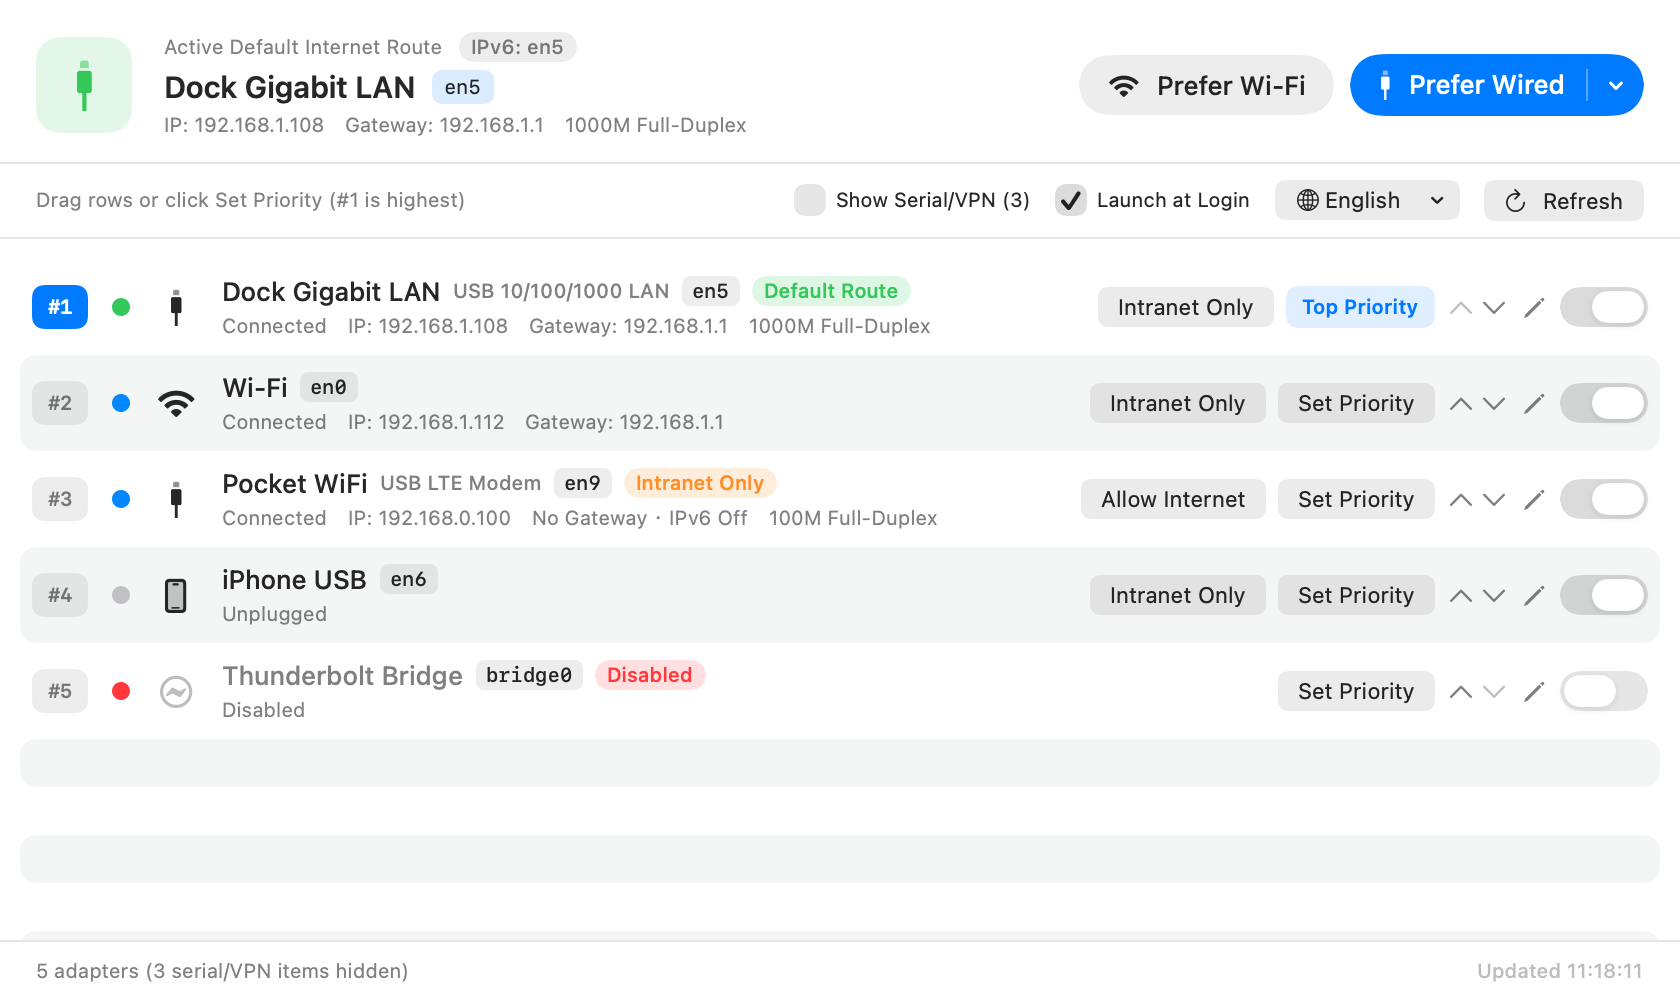
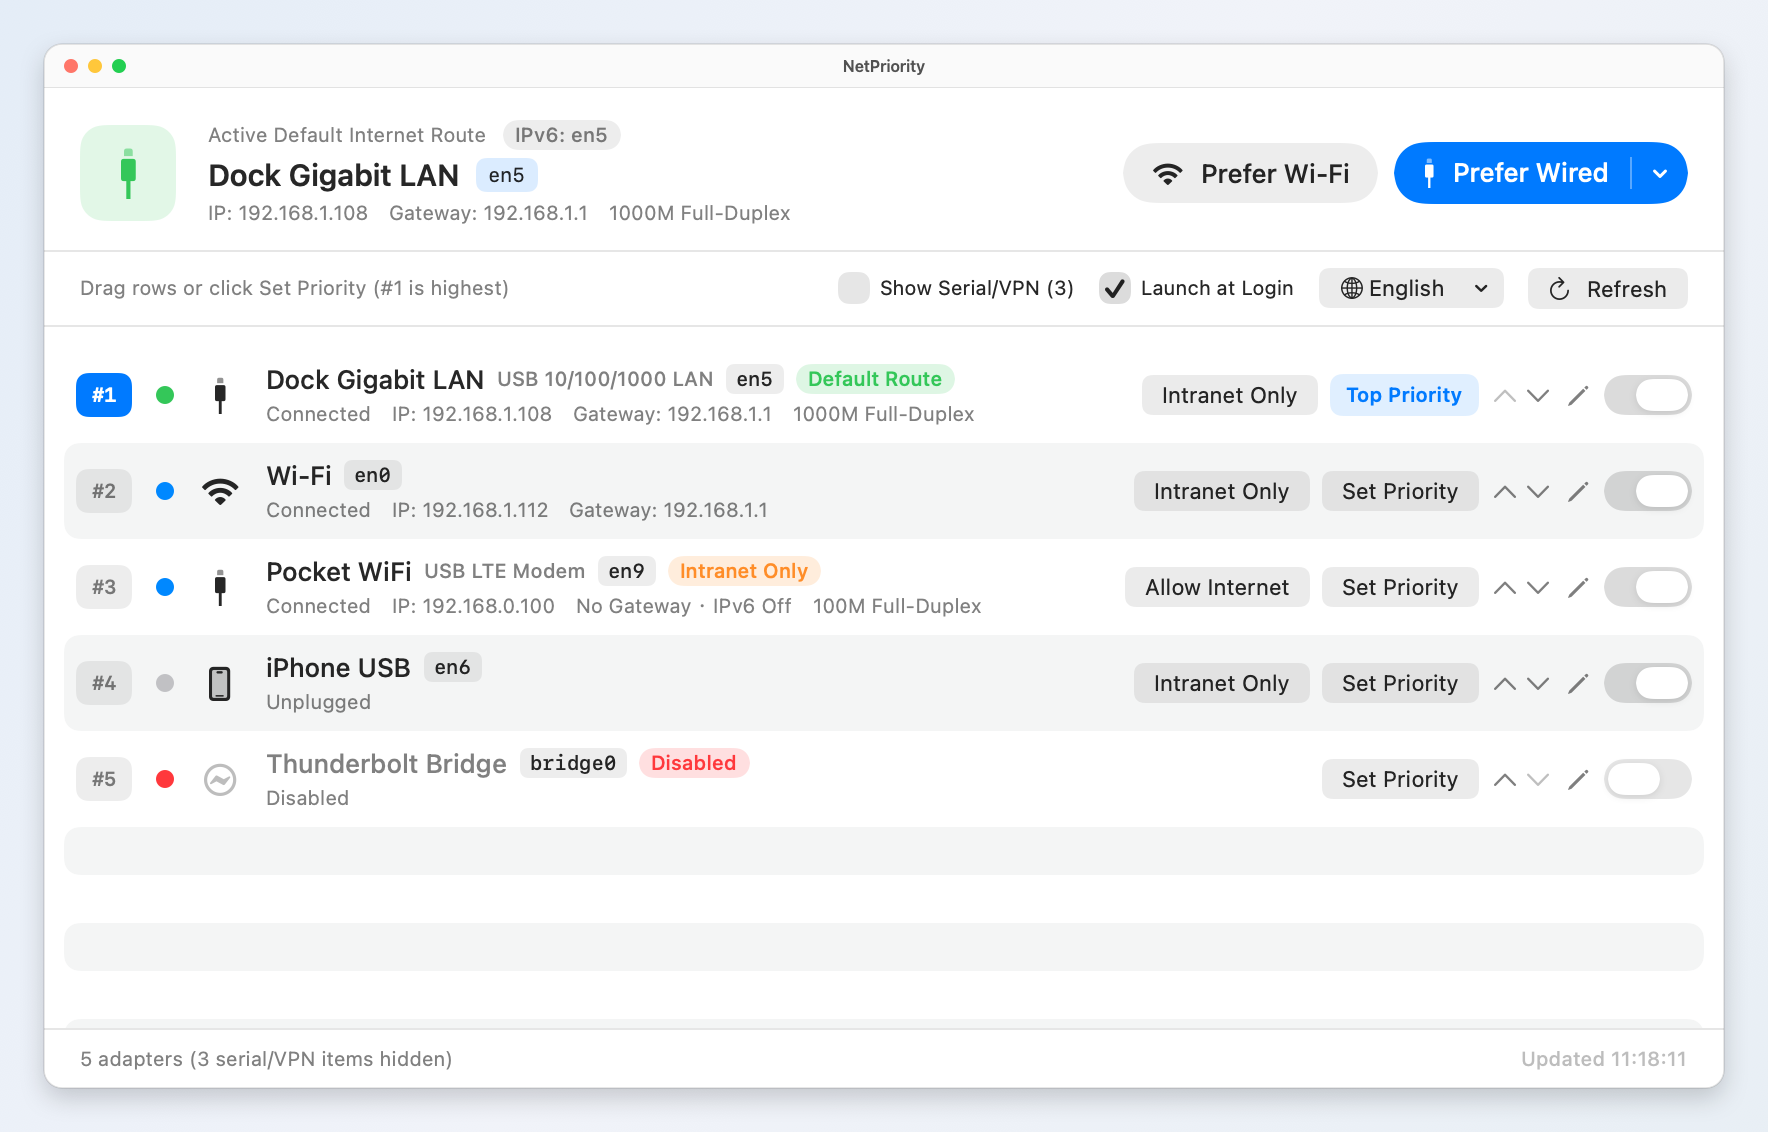
docs: replace transparent screenshots with opaque macOS captures and frosted redaction

diff --git a/README.md b/README.md
@@ -64,6 +64,10 @@ Ideal when you want to keep your main internet on one interface while accessing 
 - Enabling **`Launch at Login`** writes a lightweight `LaunchAgent` (`~/Library/LaunchAgents/io.github.wmwgz.netpriority.plist`) with `--background` so it starts silently in the menu bar on reboot.
 - Built-in **single-instance protection** ensures reopening `NetPriority.app` brings the existing window forward instead of spawning duplicate processes.
 
+<p align="center">
+  <img src="docs/screenshots/menubar-zh.png" width="360" alt="NetPriority macOS menu bar quick priority switcher" />
+</p>
+
 ### 6. Multi-Language Switching
 - Supports **Follow System**, **English**, **简体中文**, and **日本語**.
 - Switch live from the **🌐 Language** picker in the toolbar or the **`Language`** submenu in the Menu Bar—no app restart required.

diff --git a/README_JA.md b/README_JA.md
@@ -22,6 +22,10 @@ macOS の**ネットワークサービス順序**（`networksetup -ordernetworks
 - **メニューバー常駐・ログイン時起動・カスタムエイリアス**：メインウィンドウを閉じてもメニューバーから現在のデフォルト出口を確認・即座に切替可能。各アダプタに分かりやすい別名（エイリアス）をローカル保存できます。
 - **4言語ライブ切替**：システムに従う / English / 简体中文 / 日本語 を再起動なしで即時切替できます。
 
+<p align="center">
+  <img src="docs/screenshots/menubar-zh.png" width="360" alt="NetPriority macOS メニューバー クイック優先順位切替" />
+</p>
+
 ---
 
 ## インストール方法
